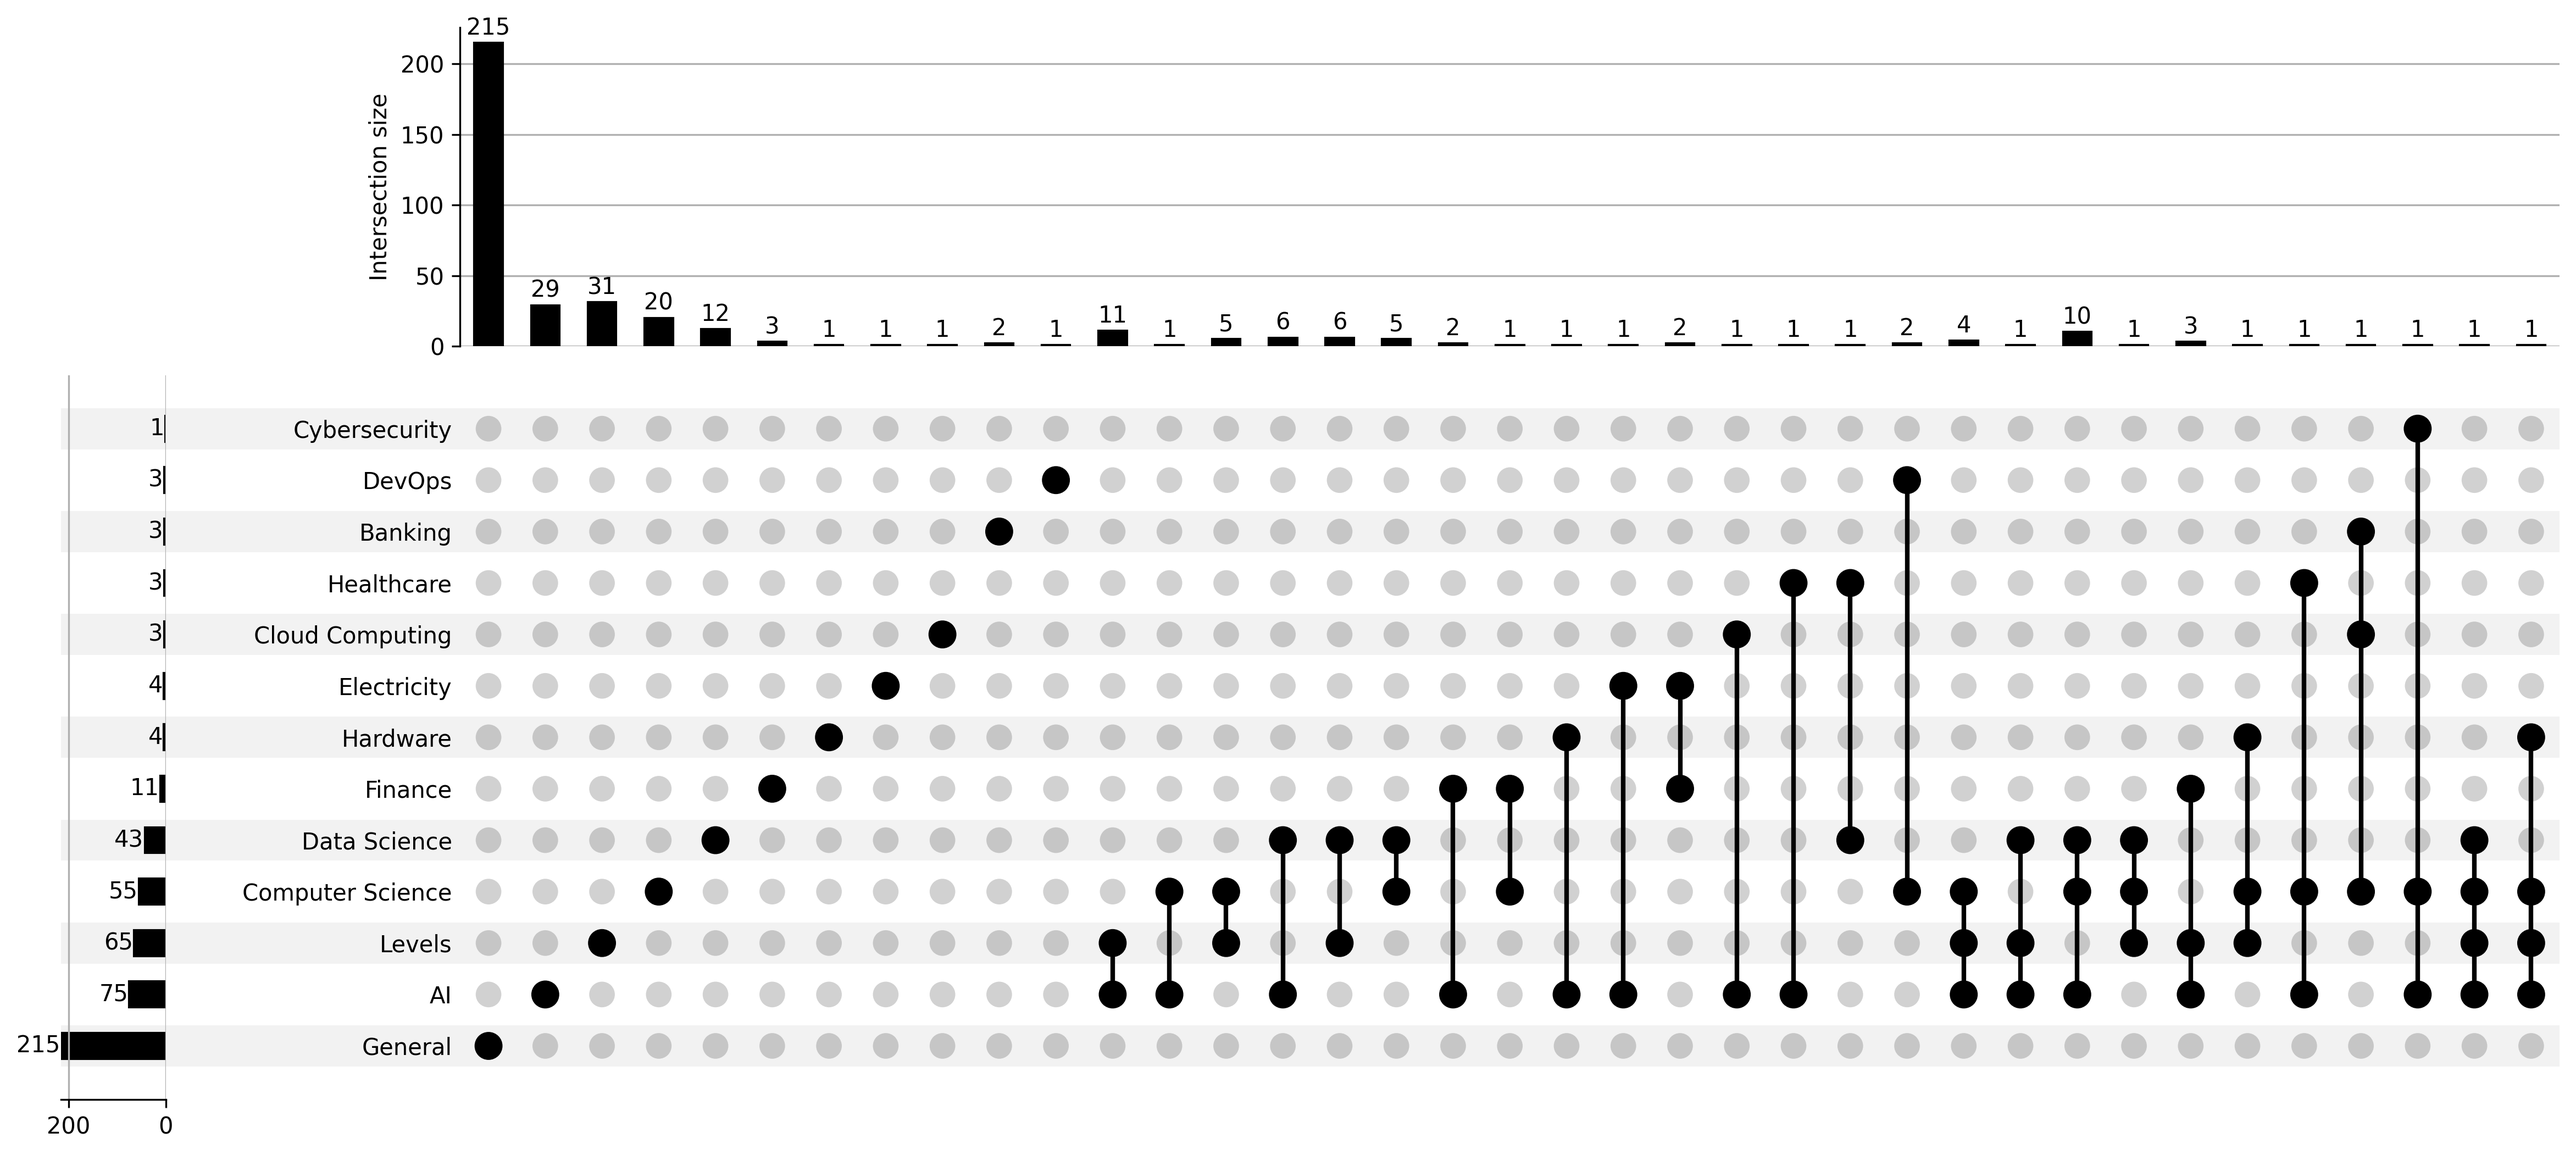
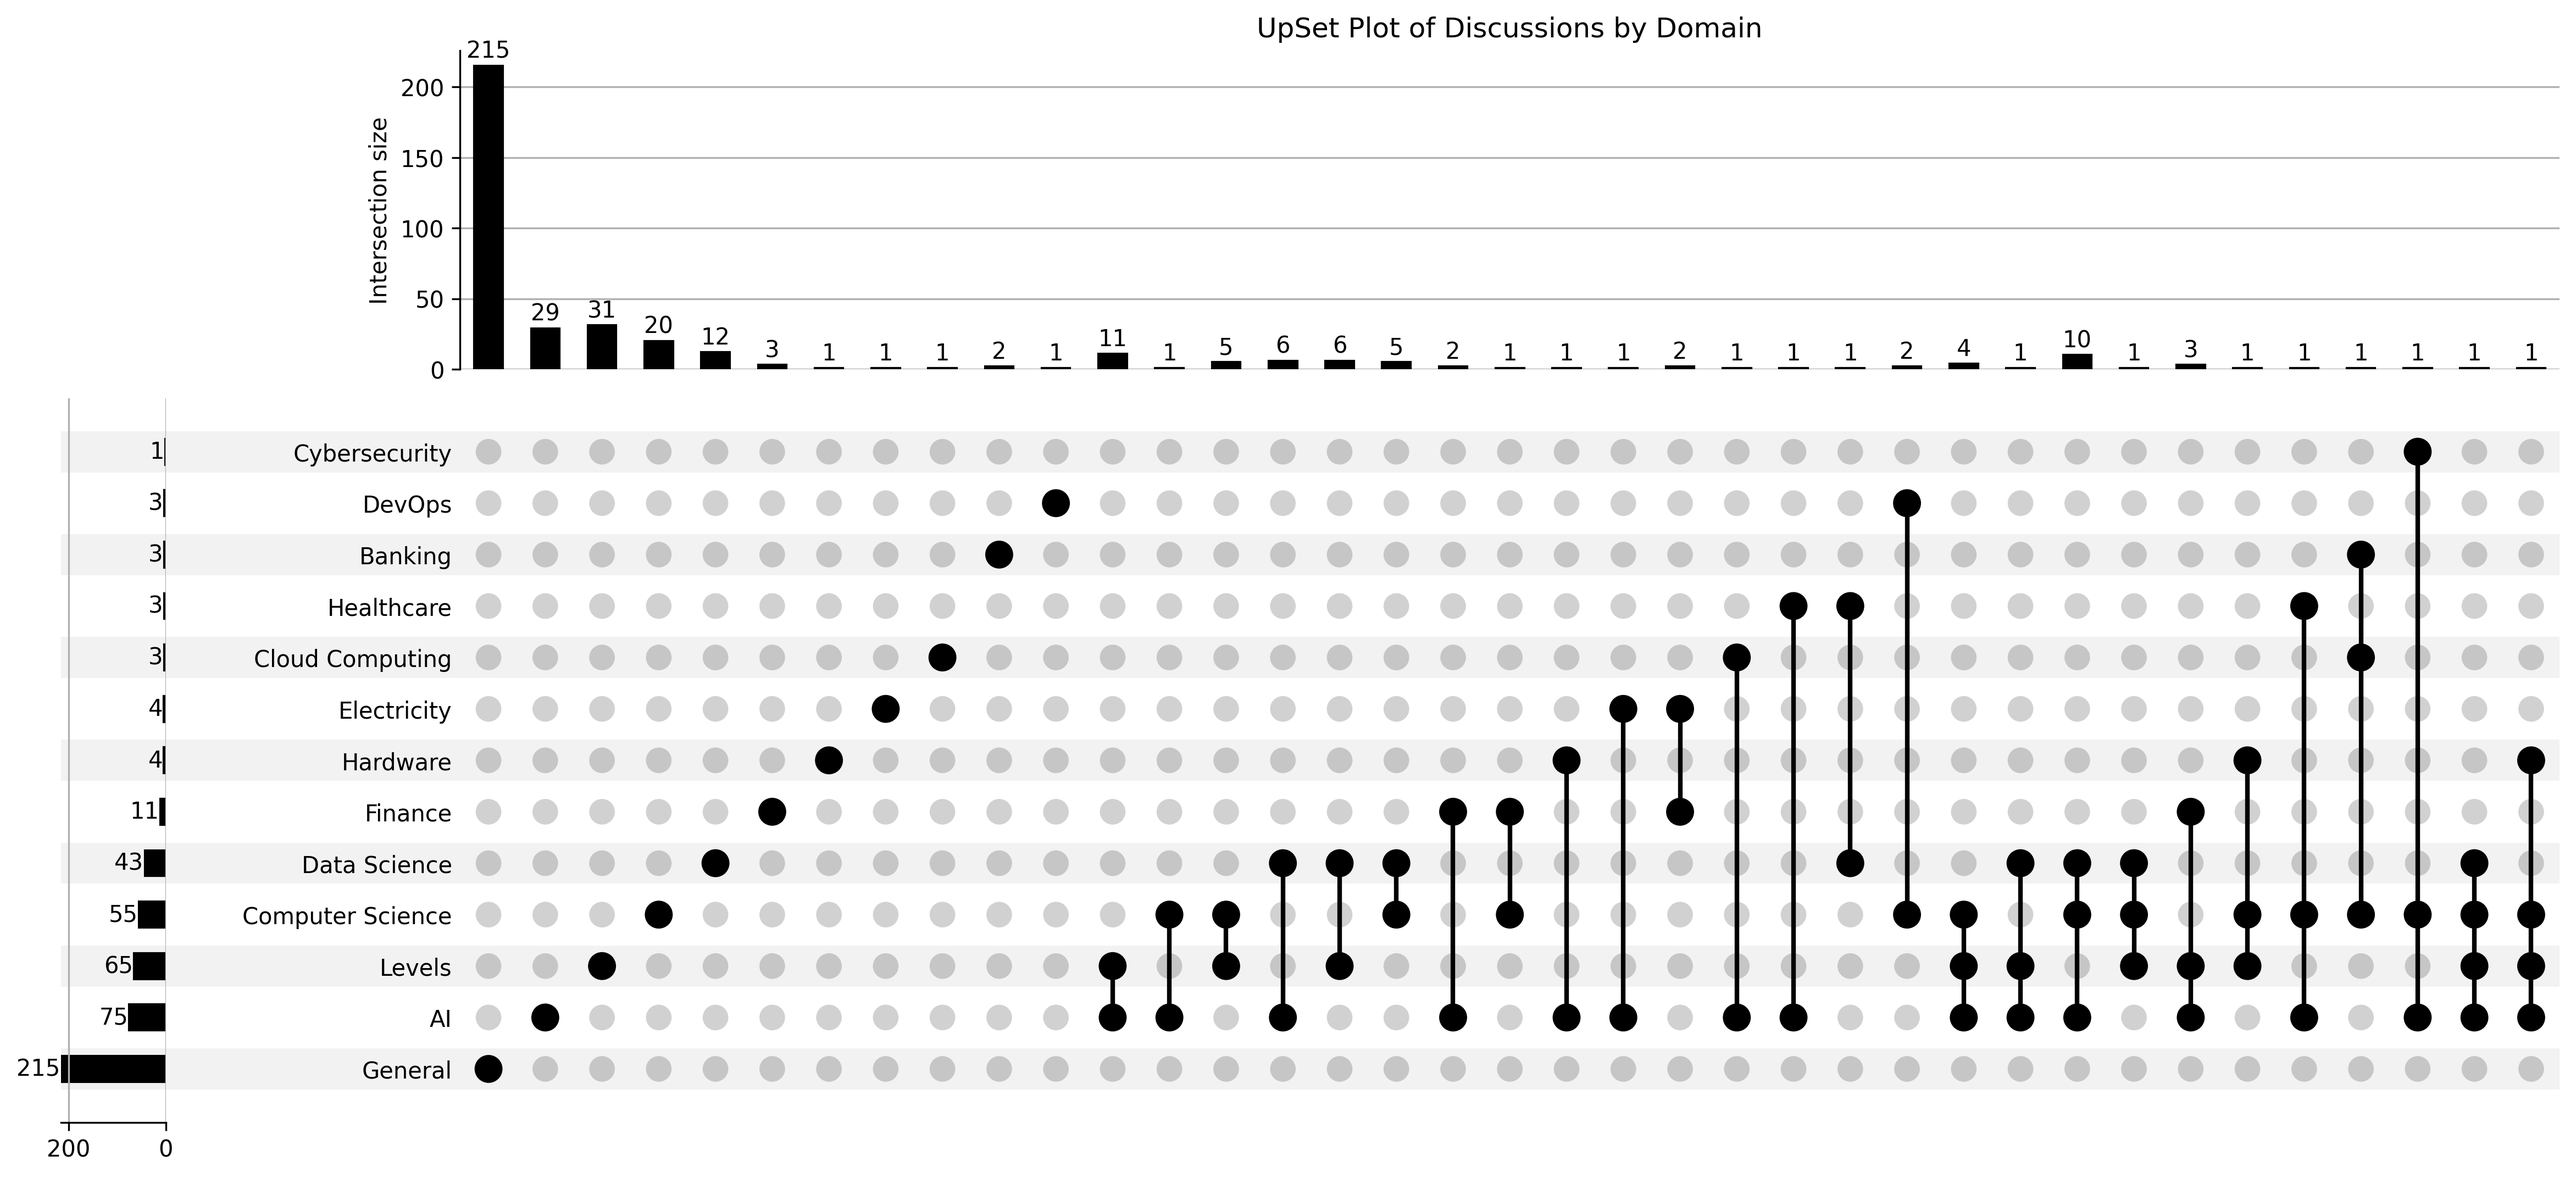
visualization improvements for Results

diff --git a/src/visualize.py b/src/visualize.py
@@ -1,15 +1,17 @@
 # to do: include the PageRank graph visualization
 # to do: innclude a Venn diagram of the domains of users (KL/LDA analysis) [Done with UpSet]
 # to do: some exploratory analysis of the data (most interesting and valuable visualizations)
-# to do: include a word cloud of the most relevant words in the topics
-# to do: include a heatmap of thematic dispersion by domain
+# to do: include a word cloud of the most relevant words in the topics [Done by forum]
+# to do: include a heatmap of thematic dispersion by domain [Done with influence score and expertise-medal]
 
-import numpy as np
+
 import pandas as pd
 import matplotlib.pyplot as plt
+import seaborn as sns
 from upsetplot import UpSet
-# from wordcloud import WordCloud
+from wordcloud import WordCloud
 from config.config import DOMAINS_TAGS
+
 
 def upset_plot(directory: str = "src/results/processed_data.xlsx", sheet_name: str = "Discussions"):
     """
@@ -30,67 +32,102 @@ def upset_plot(directory: str = "src/results/processed_data.xlsx", sheet_name: s
     upset_data = data.set_index(list_domains).groupby(level=list_domains).size()
 
     # Leer la documentación de UpSet para más opciones de visualización
-    UpSet(upset_data, subset_size='sum', show_counts=True).plot()
-    
-
+    UpSet(upset_data, subset_size='sum', 
+          show_counts=True).plot()
+    plt.title("UpSet Plot of Discussions by Domain")
     plt.savefig("src/results/upset_plot.png", dpi=300, bbox_inches='tight')
     plt.show()
     plt.close()
 
-def plot_heatmap(data: pd.DataFrame, title: str = "Heatmap"):
+def plot_heatmap(directory:str, 
+                 index_name:str, 
+                 columns_name:str, 
+                 values_name:str,
+                 agg_func:str = 'mean',
+                 title: str = "Heatmap Plot"):
     """
     Create a heatmap to visualize the distribution of discussions across domains.
     """
-    # Assuming 'data' is a DataFrame with domain distributions
-    plt.figure(figsize=(10, 8))
+    df = pd.read_excel(directory)
+    df = df.copy()
+    data = df[[values_name, index_name, columns_name]]
+
+    # Pivot the data for heatmap
+    heatmap_data = data.pivot_table(
+        index=index_name,
+        columns=columns_name,
+        values=values_name,
+        aggfunc=agg_func
+    )
+    plt.figure(figsize=(8, 6))
+    sns.heatmap(
+        heatmap_data, 
+        annot=True,  # Show values in cells
+        fmt=".3f",  # 3 decimal places
+        cmap="YlOrRd",  # Gold→Red gradient (matches medal theme)
+        linewidths=0.5,
+        linecolor='black',  # Black lines between cells
+        cbar_kws={"label": f'{values_name}'}, # Color bar label
+
+    )
     plt.title(title)
-    plt.imshow(data, cmap='hot', interpolation='nearest')
-    plt.colorbar(label='Intensity')
-    plt.xlabel('Domains')
-    plt.ylabel('Discussions')
-    plt.xticks(range(len(data.columns)), data.columns, rotation=45)
-    plt.yticks(range(len(data.index)), data.index)
-    plt.tight_layout()
+    plt.xlabel("Medal")
+    plt.ylabel("Expertise Level")
+    
+    
+    plt.savefig(f"src/results/heatmap_plot_{values_name}.png", dpi=300, bbox_inches='tight')
     plt.show()
+    plt.close()
 
-
-def plot_wordcloud(data: pd.DataFrame, title: str = "Word Cloud"):
+def plot_wordcloud(directory:str, forum_name:str, title: str = "Word Cloud"):
     """
     Create a word cloud to visualize the most relevant words in the topics.
     """
-    
-
-    text = ' '.join(data['terms'].astype(str))
+    df = pd.read_excel(directory)
+    data = df.copy()
+    data = data[data['forum'] == forum_name]
+    text = ' '.join(data['content'].astype(str))
     wordcloud = WordCloud(width=800, height=400, background_color='white').generate(text)
 
     plt.figure(figsize=(10, 8))
     plt.imshow(wordcloud, interpolation='bilinear')
     plt.axis('off')
     plt.title(title)
-    plt.show()  
+
+    plt.savefig("src/results/wordcloud_plot.png", dpi=300, bbox_inches='tight')
+    plt.show()
+    plt.close()  
 
 
-def plot_kl_divergence(data: pd.DataFrame, title: str = "KL Divergence"):
+def plot_kl_divergence(directory:str, title: str = "KL Divergence"):
     """
     Create a plot to visualize KL divergence results.
     """
+    df = pd.read_excel(directory)
+    data = df.copy()
+    
     plt.figure(figsize=(10, 6))
     plt.title(title)
-    plt.bar(data['title'], data['kl_divergence'])
-    plt.xlabel('Discussions')
+    plt.bar(data['domain'], data['kl_divergence'])
+    plt.xlabel('Domains')
     plt.ylabel('KL Divergence')
     plt.xticks(rotation=45)
     plt.tight_layout()
+
+    plt.savefig("src/results/kl_divergence_plot.png", dpi=300, bbox_inches='tight')
     plt.show()
+    plt.close()
 
 
 if __name__ == "__main__":
     # Example usage
-    dir_useplot = "src/results/processed_data.xlsx"
-    upset_plot(dir_useplot)
-    # df = pd.read_excel("", sheet_name="Discussions")
-    # plot_heatmap(df, title="Heatmap of Discussions")
-    # plot_wordcloud(df, title="Word Cloud of Topics")
-    # plot_kl_divergence(df, title="KL Divergence Results")
+    dir_processed_data = "src/results/processed_data.xlsx"
+    dir_kl_div = "src/results/kl_content_vs_domain.xlsx"
+    dir_ranked = "src/results/ranked_users.xlsx"
+    upset_plot(dir_processed_data, sheet_name="Discussions")
+    plot_heatmap(dir_ranked, index_name="expertise", columns_name="medal", values_name="influence_score", title="Average Influence Score by Expertise and Medal")
+    plot_heatmap(dir_processed_data, index_name="expertise", columns_name="medal", values_name="votes", title="Average Votes by Expertise and Medal")
+    plot_wordcloud(dir_processed_data, forum_name='getting-started', title="Word Cloud of Topics")
+    plot_kl_divergence(dir_kl_div, title="KL Divergence Results")
         
 

diff --git a/main.py b/main.py
@@ -1,15 +1,17 @@
 from src.config.config import EXPERTISE_RANKS, DOMAINS_TAGS
 from src.preprocess import DataProcessor, TextCleaner, DomainClassifier, StructuralFeatureExtractor
 
+# to do: import visualization functions as Class methods
+# to do: import LDA analysis functions as Class methods
+# to do: import structural analysis (pageRank) functions as Class methods
+
+
 if __name__ == "__main__":
     data_dir = "./data/"
-    output_path = "./src/results/processed_data.xlsx"
-    
+    output_path = "./src/results/processed_data.xlsx"    
     # Initialize the processor with your config
     processor = DataProcessor(DOMAINS_TAGS, EXPERTISE_RANKS)
-    
     # Process files
     dfs = processor.process_files(data_dir)
-    
     # Save results
     processor.save_to_excel(dfs, output_path)

diff --git a/src/tunning/lda_tunning.py b/src/tunning/lda_tunning.py
@@ -22,11 +22,9 @@ from openpyxl import Workbook
 
 # to do: fix the ouput excel file information [done]
 # to do: calculate a mean of parameters stimated from the best model in every discussion [done]
-# to do: To use the best model parameters in lda analysis.py
+# to do: To use the best model parameters in lda analysis.py [done]
 # to do: process this tunning with mlflow pipeline
 # to do: save the best model in the output folder
-
-
 
 # Initialize tools
 lemmatizer = WordNetLemmatizer()
